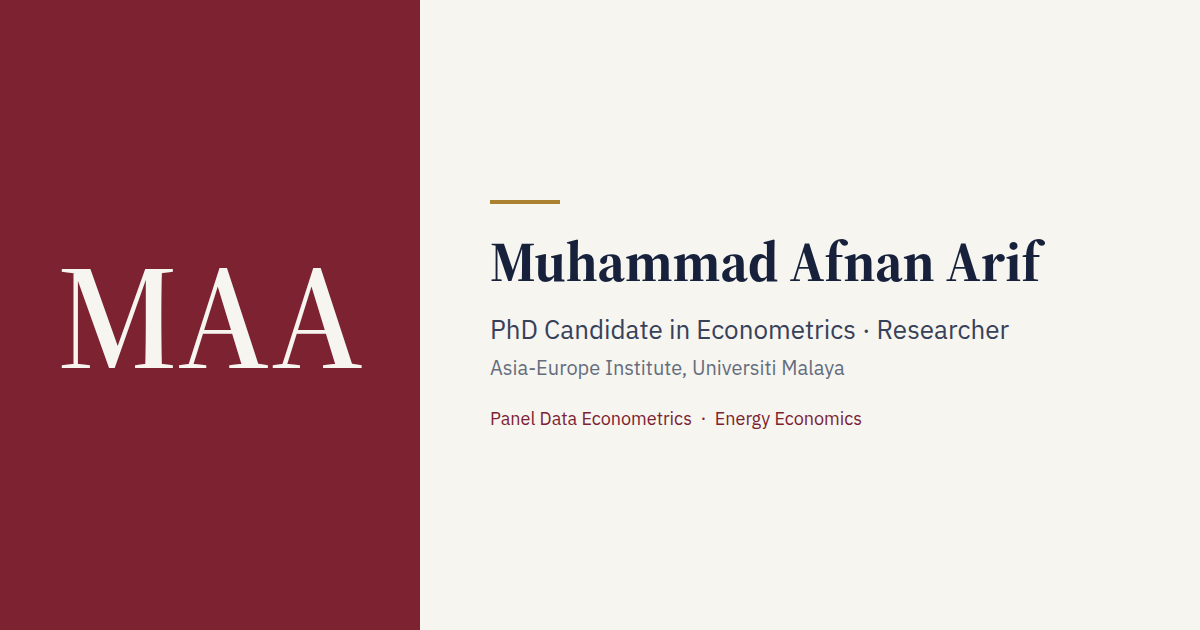
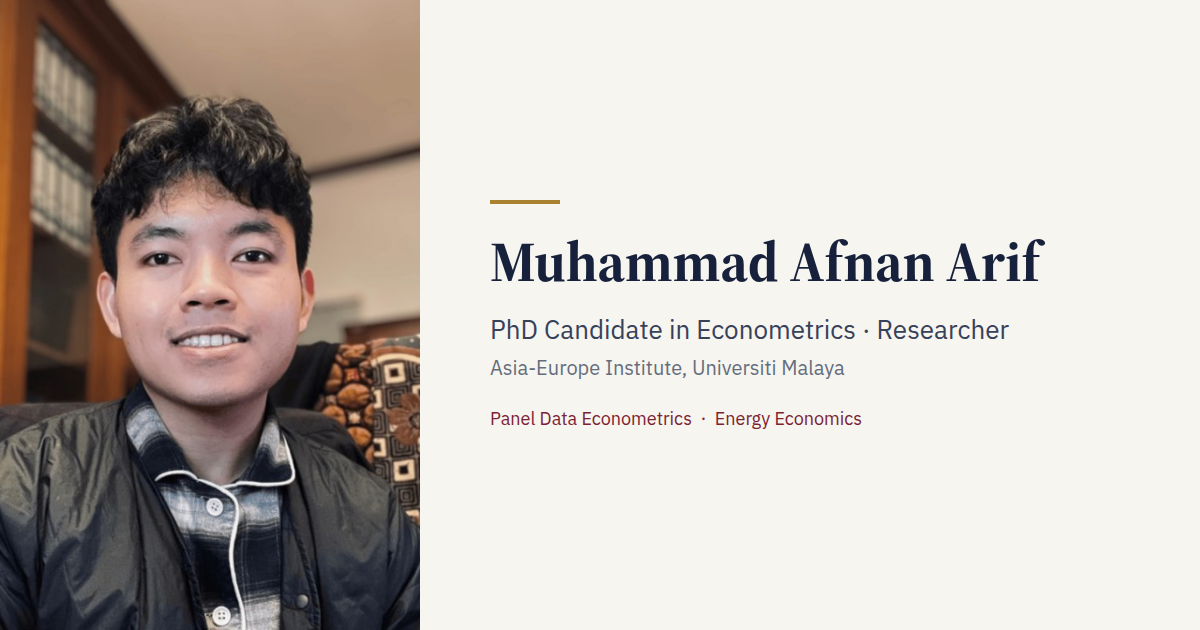
Add files via upload

diff --git a/research.html b/research.html
@@ -5,12 +5,11 @@
 <meta name="viewport" content="width=device-width, initial-scale=1.0">
 <title>Research | Muhammad Afnan Arif</title>
 <link rel="icon" type="image/svg+xml" href="assets/favicon.svg">
-<!-- EDIT: replace https://your-username.github.io with your real site URL once deployed -->
 <meta property="og:type" content="website">
 <meta property="og:title" content="Research | Muhammad Afnan Arif">
-<meta property="og:image" content="https://your-username.github.io/assets/og-image.png">
+<meta property="og:image" content="https://afnanarif04.github.io/muhdafnanarif/assets/og-image.png">
 <meta name="twitter:card" content="summary_large_image">
-<meta name="twitter:image" content="https://your-username.github.io/assets/og-image.png">
+<meta name="twitter:image" content="https://afnanarif04.github.io/muhdafnanarif/assets/og-image.png">
 <link rel="preconnect" href="https://fonts.googleapis.com">
 <link href="https://fonts.googleapis.com/css2?family=Source+Serif+4:opsz,wght@8..60,400;8..60,600;8..60,700&family=IBM+Plex+Sans:wght@400;500;600&display=swap" rel="stylesheet">
 <link rel="stylesheet" href="css/style.css">
@@ -58,13 +57,17 @@
           </summary>
           <div class="paper-body">
             <h4>Abstract</h4>
-            <p class="abstract">This paper examines how geopolitical risk and policy uncertainty affect renewable energy production across ASEAN and East Asian economies over 1990–2024, applying FMOLS and NARDL estimation, and tests whether governance quality moderates these effects.</p>
+            <p class="abstract">This study investigates the impact of geopolitical risk, climate policy uncertainty, economic policy uncertainty, and energy-related uncertainty on renewable energy production in ASEAN and East Asian countries, while examining the moderating role of governance quality across six dimensions. Using a comprehensive panel dataset from 1990 to 2024, the analysis employs Fully Modified Ordinary Least Squares (FMOLS), panel Granger causality, nonlinear autoregressive distributed lag (NARDL), and structural break tests to capture long-run relationships, directional causality, asymmetric effects, and temporal shocks. The findings reveal that uncertainties, particularly economic policy uncertainty and geo-political risk, negatively affect renewable energy output, especially in weaker institutional environments. Governance dimensions such as control of corruption, government effectiveness, and political stability significantly moderate these impacts, while others governance indicators show limited or selective interaction effects. The NARDL results highlight asymmetric responses, where positive changes in uncertainty drive more pronounced impacts than negative shifts. Structural break analysis confirms the evolving nature of uncertainty effects during major global crises. The study underscores the importance of governance-sensitive and adaptive policy frameworks to shield clean energy productions from volatility and enhance energy resilience across the region.</p>
             <h4>Highlights</h4>
             <ul class="highlights">
-              <li>Covers ASEAN and East Asian economies, 1990–2024.</li>
-              <li>Estimated with FMOLS and NARDL.</li>
-              <li>Governance components moderate the impact of geopolitical risk and policy uncertainty on renewable energy production.</li>
+              <li>Governance reduces geopolitical risk and policy uncertainty impacts on renewable energy production.</li>
+              <li>Energy-related uncertainty is structurally resistant to governance that requires sector-specific stabilization measures.</li>
+              <li>The transitions to renewables in ASEAN and East Asian region depend on tailored institutional strategies.</li>
+              <li>Impacts of policy uncertainties on renewable energy exhibit strong asymmetric dynamics.</li>
+              <li>Effective renewable energy transitions require combined institutional and market-based instruments.</li>
             </ul>
+            <h4>Keywords</h4>
+            <p class="abstract">Renewable energy production; Policy uncertainty; Geopolitical risk; Governance quality; ASEAN and East Asia; Asymmetric effects</p>
             <div class="entry-links">
               <a href="https://doi.org/10.1016/j.egyr.2026.109417" target="_blank" rel="noopener">DOI</a>
             </div>
@@ -85,13 +88,17 @@
           </summary>
           <div class="paper-body">
             <h4>Abstract</h4>
-            <p class="abstract">This paper tests whether asymmetric responses of renewable energy consumption to uncertainty are genuine or an artifact of unmodelled structural change, using a Fourier-augmented panel NARDL across 37 OECD countries over 1990–2024.</p>
+            <p class="abstract">A growing body of evidence documents asymmetric effects of uncertainty on renewable energy consumption, yet whether these asymmetries reflect genuine nonlinear responses or artefacts of unmodelled structural change remains unresolved. This study addresses that question using a balanced panel of 37 OECD countries over the period 1990 to 2024. The analysis employs a Pooled Mean Group Nonlinear ARDL framework augmented with trigonometric Fourier terms that capture smooth deterministic shifts without requiring prior knowledge of their number, timing, or functional form. Three uncertainty dimensions are examined simultaneously: climate policy uncertainty, energy-related uncertainty, and geopolitical risk. The results reveal that long-run asymmetry is genuine and variable-specific rather than uniform. Geopolitical risk displays the most pronounced asymmetry: adverse geopolitical shocks reduce renewable energy consumption substantially more than favourable shocks promote it. Climate policy uncertainty exhibits largely symmetric effects in the baseline model but undergoes a sign reversal for positive shocks once Fourier terms absorb smooth structural trends, demonstrating that uncontrolled structural change can mask underlying asymmetric patterns. Energy-related uncertainty shows the weakest asymmetric response. Long-run asymmetry is confirmed across specifications, establishing that the detected nonlinearities reflect genuine uncertainty-driven responses rather than unmodelled structural change. Short-run asymmetric effects are generally limited across all uncertainty dimensions, indicating that asymmetric transmission operates primarily through long-run adjustment channels. These findings underscore the importance of stable climate policy frameworks and geopolitical risk hedging strategies for sustaining the renewable energy transition in advanced economies.</p>
             <h4>Highlights</h4>
             <ul class="highlights">
-              <li>Sample: 37 OECD countries, 1990–2024.</li>
-              <li>Uses a Fourier-augmented panel NARDL to separate genuine asymmetry from unmodelled structural breaks.</li>
-              <li>Geopolitical risk shows the strongest long-run asymmetric effect on renewable energy consumption.</li>
+              <li>Fourier-augmented panel NARDL framework distinguishes genuine asymmetric uncertainty effects from smooth structural change.</li>
+              <li>Geopolitical risk shows strongest long-run asymmetric effect on renewable energy.</li>
+              <li>Climate policy uncertainty reverses sign under Fourier augmentation, revealing hidden asymmetry.</li>
+              <li>Energy-related uncertainty exerts weakest asymmetric effects.</li>
+              <li>Long-run asymmetry dominates; short-run effects limited, implying uncertainty shapes renewable transition through persistent channels.</li>
             </ul>
+            <h4>Keywords</h4>
+            <p class="abstract">Renewable energy consumption; Climate policy uncertainty; Energy-related uncertainty; Geopolitical risk; Pooled mean group; Fourier NARDL model</p>
             <div class="entry-links">
               <a href="https://doi.org/10.1016/j.nexus.2026.100759" target="_blank" rel="noopener">DOI</a>
             </div>
@@ -107,22 +114,16 @@
         <details class="paper">
           <summary>
             <div class="summary-text">
-              <div class="entry-title tofill">[Working paper title]</div>
-              <div class="entry-meta tofill">[Co-authors, if any] · target: [journal]</div>
+              <div class="entry-title">Short Dynamic Panels with Cross-Sectional Average Instruments under Multifactor Errors</div>
+              <div class="entry-meta">Arif, M.A. · SSRN Working Paper</div>
               <span class="entry-status">Working paper</span>
             </div>
           </summary>
           <div class="paper-body">
             <h4>Abstract</h4>
-            <p class="abstract tofill">[Paste the abstract here.]</p>
-            <h4>Highlights</h4>
-            <ul class="highlights">
-              <li class="tofill">[Highlight 1]</li>
-              <li class="tofill">[Highlight 2]</li>
-              <li class="tofill">[Highlight 3]</li>
-            </ul>
+            <p class="abstract tofill">[SSRN could not be reached automatically to pull the official abstract (the page returns a repeated access error) — paste the full abstract text from your SSRN page here to replace this note.]</p>
             <div class="entry-links">
-              <a href="#" class="tofill">Paper (PDF)</a>
+              <a href="https://papers.ssrn.com/sol3/papers.cfm?abstract_id=6889338" target="_blank" rel="noopener">SSRN</a>
             </div>
           </div>
         </details>
@@ -130,22 +131,16 @@
         <details class="paper">
           <summary>
             <div class="summary-text">
-              <div class="entry-title tofill">[Working paper title]</div>
-              <div class="entry-meta tofill">[Co-authors, if any] · target: [journal]</div>
+              <div class="entry-title">Bias-Corrected Method of Moments Estimation for Short-T Dynamic Panel Data Models with Latent Group Structure</div>
+              <div class="entry-meta">Arif, M.A. · SSRN Working Paper</div>
               <span class="entry-status">Working paper</span>
             </div>
           </summary>
           <div class="paper-body">
             <h4>Abstract</h4>
-            <p class="abstract tofill">[Paste the abstract here.]</p>
-            <h4>Highlights</h4>
-            <ul class="highlights">
-              <li class="tofill">[Highlight 1]</li>
-              <li class="tofill">[Highlight 2]</li>
-              <li class="tofill">[Highlight 3]</li>
-            </ul>
+            <p class="abstract tofill">[SSRN could not be reached automatically to pull the official abstract (the page returns a repeated access error) — paste the full abstract text from your SSRN page here to replace this note.]</p>
             <div class="entry-links">
-              <a href="#" class="tofill">Paper (PDF)</a>
+              <a href="https://papers.ssrn.com/sol3/papers.cfm?abstract_id=6889919" target="_blank" rel="noopener">SSRN</a>
             </div>
           </div>
         </details>
@@ -153,22 +148,16 @@
         <details class="paper">
           <summary>
             <div class="summary-text">
-              <div class="entry-title tofill">[Working paper title]</div>
-              <div class="entry-meta tofill">[Co-authors, if any] · target: [journal]</div>
+              <div class="entry-title">Common Correlated Effects Estimation of Dynamic Three-Dimensional Heterogeneous Panel Data Models</div>
+              <div class="entry-meta">Arif, M.A. · SSRN Working Paper</div>
               <span class="entry-status">Working paper</span>
             </div>
           </summary>
           <div class="paper-body">
             <h4>Abstract</h4>
-            <p class="abstract tofill">[Paste the abstract here.]</p>
-            <h4>Highlights</h4>
-            <ul class="highlights">
-              <li class="tofill">[Highlight 1]</li>
-              <li class="tofill">[Highlight 2]</li>
-              <li class="tofill">[Highlight 3]</li>
-            </ul>
+            <p class="abstract tofill">[SSRN could not be reached automatically to pull the official abstract (the page returns a repeated access error) — paste the full abstract text from your SSRN page here to replace this note.]</p>
             <div class="entry-links">
-              <a href="#" class="tofill">Paper (PDF)</a>
+              <a href="https://papers.ssrn.com/sol3/papers.cfm?abstract_id=7001958" target="_blank" rel="noopener">SSRN</a>
             </div>
           </div>
         </details>

diff --git a/index.html b/index.html
@@ -6,14 +6,13 @@
 <title>Muhammad Afnan Arif</title>
 <meta name="description" content="Muhammad Afnan Arif — PhD Candidate in Econometrics, Asia-Europe Institute, Universiti Malaya. Research on heterogeneous dynamic panel data models and energy economics.">
 <link rel="icon" type="image/svg+xml" href="assets/favicon.svg">
-<!-- EDIT: replace https://your-username.github.io with your real site URL once deployed -->
 <meta property="og:type" content="website">
 <meta property="og:title" content="Muhammad Afnan Arif">
 <meta property="og:description" content="PhD Candidate in Econometrics, Asia-Europe Institute, Universiti Malaya. Research on heterogeneous dynamic panel data models and energy economics.">
-<meta property="og:image" content="https://your-username.github.io/assets/og-image.png">
-<meta property="og:url" content="https://your-username.github.io/">
+<meta property="og:image" content="https://afnanarif04.github.io/muhdafnanarif/assets/og-image.png">
+<meta property="og:url" content="https://afnanarif04.github.io/muhdafnanarif/">
 <meta name="twitter:card" content="summary_large_image">
-<meta name="twitter:image" content="https://your-username.github.io/assets/og-image.png">
+<meta name="twitter:image" content="https://afnanarif04.github.io/muhdafnanarif/assets/og-image.png">
 <link rel="preconnect" href="https://fonts.googleapis.com">
 <link href="https://fonts.googleapis.com/css2?family=Source+Serif+4:opsz,wght@8..60,400;8..60,600;8..60,700&family=IBM+Plex+Sans:wght@400;500;600&display=swap" rel="stylesheet">
 <link rel="stylesheet" href="css/style.css">
@@ -41,11 +40,7 @@
     <section class="hero">
       <div class="hero-grid">
         <div class="hero-photo">
-          <!-- EDIT: replace with <img src="assets/photo.jpg" width="168" height="168" style="border-radius:6px;object-fit:cover;" alt="Muhammad Afnan Arif"> -->
-          <svg width="168" height="168" viewBox="0 0 168 168" xmlns="http://www.w3.org/2000/svg" role="img" aria-label="Placeholder portrait">
-            <rect width="168" height="168" fill="#7c2230"/>
-            <text x="50%" y="54%" text-anchor="middle" font-family="Source Serif 4, Georgia, serif" font-size="52" fill="#f6f5f0" dy=".1em">MAA</text>
-          </svg>
+          <img src="assets/photo.jpg" width="168" height="168" style="border-radius:6px;object-fit:cover;display:block;" alt="Muhammad Afnan Arif">
         </div>
         <div class="hero-text">
           <h1>Muhammad Afnan Arif</h1>
@@ -57,7 +52,7 @@
               <svg viewBox="0 0 24 24" fill="none" stroke="currentColor" stroke-width="1.8"><rect x="3" y="5" width="18" height="14" rx="2"/><path d="M3 7l9 6 9-6"/></svg>
               Email
             </a>
-            <a href="https://scholar.google.com/" target="_blank" rel="noopener"><!-- EDIT: your Google Scholar URL -->
+            <a href="https://scholar.google.com/citations?user=O4lJLBcAAAAJ" target="_blank" rel="noopener">
               <svg viewBox="0 0 24 24" fill="none" stroke="currentColor" stroke-width="1.8"><path d="M12 4 2 9l10 5 10-5-10-5Z"/><path d="M6 12v5c0 1.5 3 3 6 3s6-1.5 6-3v-5"/></svg>
               Google Scholar
             </a>
@@ -65,7 +60,7 @@
               <svg viewBox="0 0 24 24" fill="none" stroke="currentColor" stroke-width="1.8"><path d="M12 2a10 10 0 0 0-3.16 19.5c.5.1.68-.22.68-.48v-1.7c-2.78.6-3.37-1.34-3.37-1.34-.46-1.16-1.11-1.47-1.11-1.47-.9-.62.07-.6.07-.6 1 .07 1.53 1.03 1.53 1.03.9 1.52 2.34 1.08 2.91.83.09-.65.35-1.08.63-1.33-2.22-.25-4.56-1.11-4.56-4.94 0-1.09.39-1.98 1.03-2.68-.1-.25-.45-1.27.1-2.65 0 0 .84-.27 2.75 1.02a9.6 9.6 0 0 1 5 0c1.91-1.3 2.75-1.02 2.75-1.02.55 1.38.2 2.4.1 2.65.64.7 1.03 1.59 1.03 2.68 0 3.84-2.35 4.68-4.58 4.93.36.31.68.92.68 1.86v2.75c0 .27.18.58.69.48A10 10 0 0 0 12 2Z"/></svg>
               GitHub
             </a>
-            <a href="https://orcid.org/" target="_blank" rel="noopener"><!-- EDIT: your ORCID URL -->
+            <a href="https://orcid.org/0009-0008-9717-5275" target="_blank" rel="noopener">
               <svg viewBox="0 0 24 24"><circle cx="12" cy="12" r="12" fill="#A6CE39"/><text x="12" y="16.5" text-anchor="middle" font-family="Arial, sans-serif" font-size="11" font-weight="700" fill="#ffffff">iD</text></svg>
               ORCID
             </a>
@@ -145,8 +140,8 @@
       <h2>Featured working paper</h2>
       <p class="lede">More in progress — see <a href="research.html">Research</a> for all working papers.</p>
       <div class="entry">
-        <div class="entry-title tofill">[Working paper title]</div>
-        <div class="entry-meta tofill">[Co-authors, if any] · target: [journal]</div>
+        <div class="entry-title">Short Dynamic Panels with Cross-Sectional Average Instruments under Multifactor Errors</div>
+        <div class="entry-meta">Arif, M.A. · SSRN Working Paper</div>
         <span class="entry-status">Working paper</span>
       </div>
     </section>

diff --git a/code.html b/code.html
@@ -5,12 +5,11 @@
 <meta name="viewport" content="width=device-width, initial-scale=1.0">
 <title>Code | Muhammad Afnan Arif</title>
 <link rel="icon" type="image/svg+xml" href="assets/favicon.svg">
-<!-- EDIT: replace https://your-username.github.io with your real site URL once deployed -->
 <meta property="og:type" content="website">
 <meta property="og:title" content="Code | Muhammad Afnan Arif">
-<meta property="og:image" content="https://your-username.github.io/assets/og-image.png">
+<meta property="og:image" content="https://afnanarif04.github.io/muhdafnanarif/assets/og-image.png">
 <meta name="twitter:card" content="summary_large_image">
-<meta name="twitter:image" content="https://your-username.github.io/assets/og-image.png">
+<meta name="twitter:image" content="https://afnanarif04.github.io/muhdafnanarif/assets/og-image.png">
 <link rel="preconnect" href="https://fonts.googleapis.com">
 <link href="https://fonts.googleapis.com/css2?family=Source+Serif+4:opsz,wght@8..60,400;8..60,600;8..60,700&family=IBM+Plex+Sans:wght@400;500;600&display=swap" rel="stylesheet">
 <link rel="stylesheet" href="css/style.css">
@@ -46,35 +45,35 @@
       <p class="lede">Highlight your most relevant repos here — full list is always on GitHub via the button above.</p>
 
       <div class="entry">
-        <div class="entry-title tofill">[Repository name]</div>
-        <div class="entry-meta tofill">[One-line description of what the code does]</div>
+        <div class="entry-title">GMM with Common Correlated Effects</div>
+        <div class="entry-meta">Replication code for GMM estimators of short dynamic panel data models with unobserved common factors and latent-group slope heterogeneity — AB-GMM, IFE and CCE variants, Monte Carlo simulations, and an empirical application to seven World Bank development indicators (1990–2019).</div>
         <ul class="tags" style="margin-top:8px;">
-          <li class="tofill">[R]</li>
+          <li>R</li>
         </ul>
         <div class="entry-links">
-          <a href="https://github.com/afnanarif04" target="_blank" rel="noopener" class="tofill">View on GitHub</a>
+          <a href="https://github.com/afnanarif04/12-gmm-with-common-correlated-effects" target="_blank" rel="noopener">View on GitHub</a>
         </div>
       </div>
 
       <div class="entry">
-        <div class="entry-title tofill">[Repository name]</div>
-        <div class="entry-meta tofill">[One-line description of what the code does]</div>
+        <div class="entry-title">GMM with Latent Group Structure</div>
+        <div class="entry-meta">Replication package for a bias-corrected method of moments estimator for dynamic panel data models with a short time dimension and latent group structure in the slope coefficients — Monte Carlo simulations plus empirical applications to cross-country savings rates and the income–democracy relationship.</div>
         <ul class="tags" style="margin-top:8px;">
-          <li class="tofill">[R]</li>
+          <li>R</li>
         </ul>
         <div class="entry-links">
-          <a href="https://github.com/afnanarif04" target="_blank" rel="noopener" class="tofill">View on GitHub</a>
+          <a href="https://github.com/afnanarif04/21-gmm-with-latent-group-structure" target="_blank" rel="noopener">View on GitHub</a>
         </div>
       </div>
 
       <div class="entry">
-        <div class="entry-title tofill">[Repository name]</div>
-        <div class="entry-meta tofill">[One-line description of what the code does]</div>
+        <div class="entry-title">Three-Dimensional Panel with CCE Framework</div>
+        <div class="entry-meta">Replication code for a common correlated effects estimator for dynamic three-dimensional (origin–destination–time) heterogeneous panel data, augmenting each unit-pair regression with cross-sectional averages to absorb global, origin- and destination-specific shocks — Monte Carlo study and an empirical application to bilateral export flows (18 origins × 19 destinations, 1995–2024).</div>
         <ul class="tags" style="margin-top:8px;">
-          <li class="tofill">[R]</li>
+          <li>R</li>
         </ul>
         <div class="entry-links">
-          <a href="https://github.com/afnanarif04" target="_blank" rel="noopener" class="tofill">View on GitHub</a>
+          <a href="https://github.com/afnanarif04/30-threedimensional-panel-with-cce-framework" target="_blank" rel="noopener">View on GitHub</a>
         </div>
       </div>
     </section>

diff --git a/contact.html b/contact.html
@@ -5,12 +5,11 @@
 <meta name="viewport" content="width=device-width, initial-scale=1.0">
 <title>Contact | Muhammad Afnan Arif</title>
 <link rel="icon" type="image/svg+xml" href="assets/favicon.svg">
-<!-- EDIT: replace https://your-username.github.io with your real site URL once deployed -->
 <meta property="og:type" content="website">
 <meta property="og:title" content="Contact | Muhammad Afnan Arif">
-<meta property="og:image" content="https://your-username.github.io/assets/og-image.png">
+<meta property="og:image" content="https://afnanarif04.github.io/muhdafnanarif/assets/og-image.png">
 <meta name="twitter:card" content="summary_large_image">
-<meta name="twitter:image" content="https://your-username.github.io/assets/og-image.png">
+<meta name="twitter:image" content="https://afnanarif04.github.io/muhdafnanarif/assets/og-image.png">
 <link rel="preconnect" href="https://fonts.googleapis.com">
 <link href="https://fonts.googleapis.com/css2?family=Source+Serif+4:opsz,wght@8..60,400;8..60,600;8..60,700&family=IBM+Plex+Sans:wght@400;500;600&display=swap" rel="stylesheet">
 <link rel="stylesheet" href="css/style.css">
@@ -51,9 +50,9 @@
         <div class="contact-item">
           <dt>Elsewhere</dt>
           <dd>
-            <a href="https://scholar.google.com/" class="tofill">Google Scholar</a><br>
+            <a href="https://scholar.google.com/citations?user=O4lJLBcAAAAJ">Google Scholar</a><br>
             <a href="https://github.com/afnanarif04">GitHub</a><br>
-            <a href="https://orcid.org/" class="tofill">ORCID</a><br>
+            <a href="https://orcid.org/0009-0008-9717-5275">ORCID</a><br>
             <a href="https://www.linkedin.com/in/muhd-afnan-arif/">LinkedIn</a>
           </dd>
         </div>

diff --git a/cv.html b/cv.html
@@ -5,12 +5,11 @@
 <meta name="viewport" content="width=device-width, initial-scale=1.0">
 <title>CV | Muhammad Afnan Arif</title>
 <link rel="icon" type="image/svg+xml" href="assets/favicon.svg">
-<!-- EDIT: replace https://your-username.github.io with your real site URL once deployed -->
 <meta property="og:type" content="website">
 <meta property="og:title" content="CV | Muhammad Afnan Arif">
-<meta property="og:image" content="https://your-username.github.io/assets/og-image.png">
+<meta property="og:image" content="https://afnanarif04.github.io/muhdafnanarif/assets/og-image.png">
 <meta name="twitter:card" content="summary_large_image">
-<meta name="twitter:image" content="https://your-username.github.io/assets/og-image.png">
+<meta name="twitter:image" content="https://afnanarif04.github.io/muhdafnanarif/assets/og-image.png">
 <link rel="preconnect" href="https://fonts.googleapis.com">
 <link href="https://fonts.googleapis.com/css2?family=Source+Serif+4:opsz,wght@8..60,400;8..60,600;8..60,700&family=IBM+Plex+Sans:wght@400;500;600&display=swap" rel="stylesheet">
 <link rel="stylesheet" href="css/style.css">

diff --git a/README.md b/README.md
@@ -21,37 +21,49 @@ Search each `.html` file for:
 
 Priority edits:
 
-1. **Photo** — drop a square-ish JPG/PNG into `assets/photo.jpg`, then in
-   `index.html` swap the placeholder `<svg>...</svg>` block for the
-   `<img>` tag given in the comment right above it. The favicon and OG
-   share image keep using the "MAA" monogram either way — no need to
-   change those unless you want to.
-2. **Google Scholar / ORCID** — still placeholders in `index.html` and
-   `contact.html`; replace with your real profile links. (Email, GitHub
-   and LinkedIn are already filled in with your real links.)
+1. ~~Photo~~ — done: `assets/photo.jpg` is your real photo, and
+   `index.html`'s hero now uses it. To swap it later, replace
+   `assets/photo.jpg` with a new square-ish image of the same filename
+   (it's cropped to a square automatically by the browser via
+   `object-fit: cover`). The favicon keeps the "MAA" monogram (a face
+   doesn't read well at 16px), and the OG share image now uses your
+   photo too.
+2. ~~Google Scholar / ORCID~~ — done: `index.html` and `contact.html`
+   now link to your real ORCID (`orcid.org/0009-0008-9717-5275`) and
+   Google Scholar (`scholar.google.com/citations?user=O4lJLBcAAAAJ`)
+   profiles. (Email, GitHub and LinkedIn were already filled in.)
 3. **Scholar citation stats** — the "Cited by [ ] · h-index [ ]" line
    under the hero links (`class="scholar-stats"` in `index.html`) is
    filled in by hand from your Scholar profile — see the note under
    "Scholar citation stats" below for why this can't be live.
-4. **Site URL for sharing** — every page's `<head>` has an `<!-- EDIT -->`
-   comment above a few `og:` / `twitter:` meta tags using
-   `https://your-username.github.io` as a placeholder domain. Once you
-   know your real GitHub Pages URL, find-and-replace that placeholder
-   across all 5 files so link previews (WhatsApp, LinkedIn, etc.) point
-   to the right place.
-5. **CV** — add your real `cv.pdf` into `assets/`.
-6. **Research → Working papers** — 3 placeholder entries are there,
-   collapsible like the published papers above them (click the title to
-   expand). Replace each title, authors/target journal, abstract and its
-   3 highlight bullets. Add or remove a whole `<details class="paper">…
-   </details>` block if you end up with more or fewer than 3. Once one
-   is real, consider copying its summary into the "Featured working
-   paper" section on `index.html` too (currently a matching placeholder).
-7. **Code** — the "View all repositories" button already links to your
-   real GitHub repo list. The "Featured repositories" cards below it are
-   placeholders (repo name, one-line description, language tag, link) —
-   pick 2–4 repos worth highlighting and fill those in; delete extra
-   cards or copy the block for more.
+4. ~~Site URL for sharing~~ — done: the `og:`/`twitter:` meta tags in every
+   page now point to `https://afnanarif04.github.io/muhdafnanarif/`,
+   matching this repo. If you ever rename the repo or move to a custom
+   domain, update those tags (and `og:url`) to match.
+5. ~~CV~~ — done: `assets/cv.pdf` is now a standard academic CV (no photo,
+   per your request) built from the same Education/Employment/
+   Publications/Presentations/Affiliations/Skills content on this page.
+   Regenerate it any time by editing this page's content and asking me
+   to rebuild the PDF, or edit `assets/cv.pdf` directly in any PDF editor.
+6. **Research → Working papers** — the 3 entries are now your real SSRN
+   papers, in the order you gave, each linking to its SSRN page. Their
+   abstracts could **not** be filled in automatically: SSRN's abstract
+   pages (`papers.ssrn.com/sol3/papers.cfm?abstract_id=...`) returned a
+   repeated access error (HTTP 429) for all three of your specific paper
+   IDs when fetched from here, even though other unrelated SSRN pages
+   loaded fine — so this looks specific to these three pages (possibly
+   because they're very recent submissions), not a general block. Each
+   entry has a `class="tofill"` note where the abstract goes — open your
+   SSRN page for each paper, copy the official abstract, and paste it in
+   to replace the note (search `research.html` for "SSRN could not be
+   reached"). No "Highlights" list was added for these three, to avoid
+   inventing bullet points that aren't actually in the paper — add one
+   yourself (3–5 short bullets, `<ul class="highlights">`, matching the
+   style of the published papers above) once you've pasted the abstract.
+7. ~~Code~~ — done: the 3 "Featured repositories" cards now link to your
+   real GitHub repos (12-gmm-with-common-correlated-effects,
+   21-gmm-with-latent-group-structure, 30-threedimensional-panel-with-
+   cce-framework), with descriptions drawn from each repo's README.
 8. **News** — the timeline on `index.html` is pre-filled with your most
    recent conference talk and two publications; add newer items above
    them as they happen, and trim old ones so it doesn't grow forever.
@@ -143,10 +155,11 @@ or `IntersectionObserver` isn't supported (logic in `js/site.js`, guarded
 by `<body data-page="home">`).
 
 ### Featured working paper on Home
-A new "Featured working paper" section sits below "Selected publications"
-on `index.html`, mirroring one placeholder card from `research.html`'s
-Working papers section — fill it in once you've filled in a real one
-there (see edit 6 above).
+A "Featured working paper" section sits below "Selected publications" on
+`index.html`, mirroring the first working paper from `research.html`'s
+Working papers section (currently "Short Dynamic Panels with
+Cross-Sectional Average Instruments under Multifactor Errors") — update
+it by hand if you reorder or swap your working papers.
 
 ## 3. Preview locally (optional)
 
